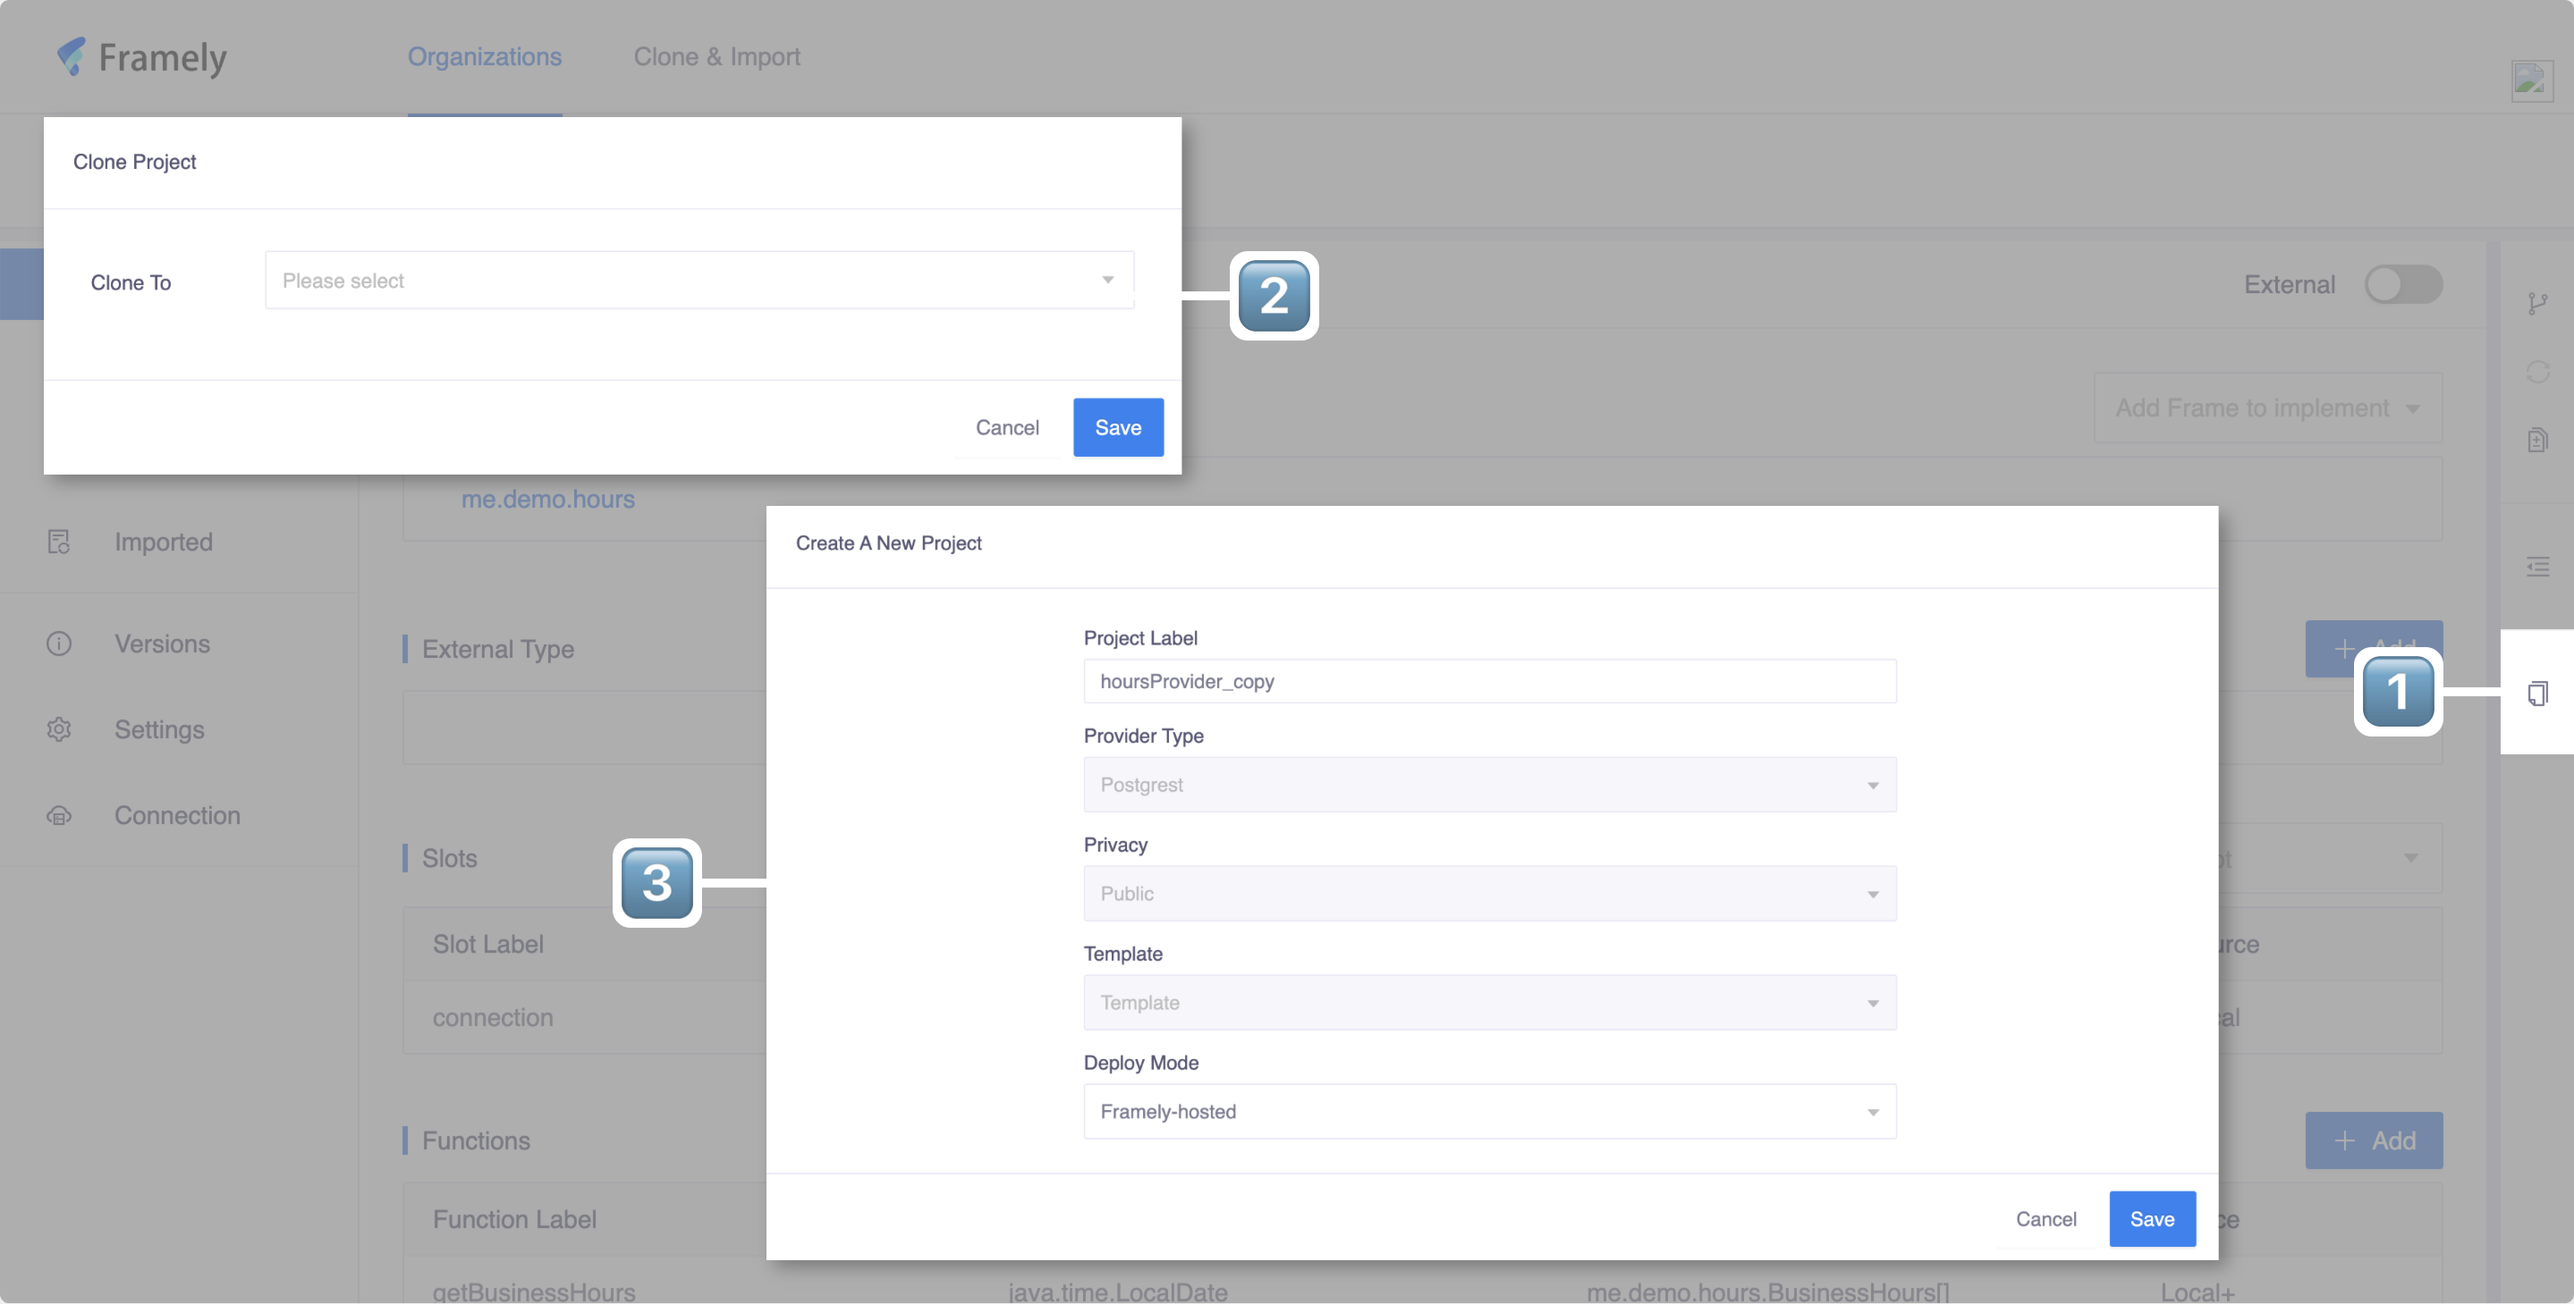
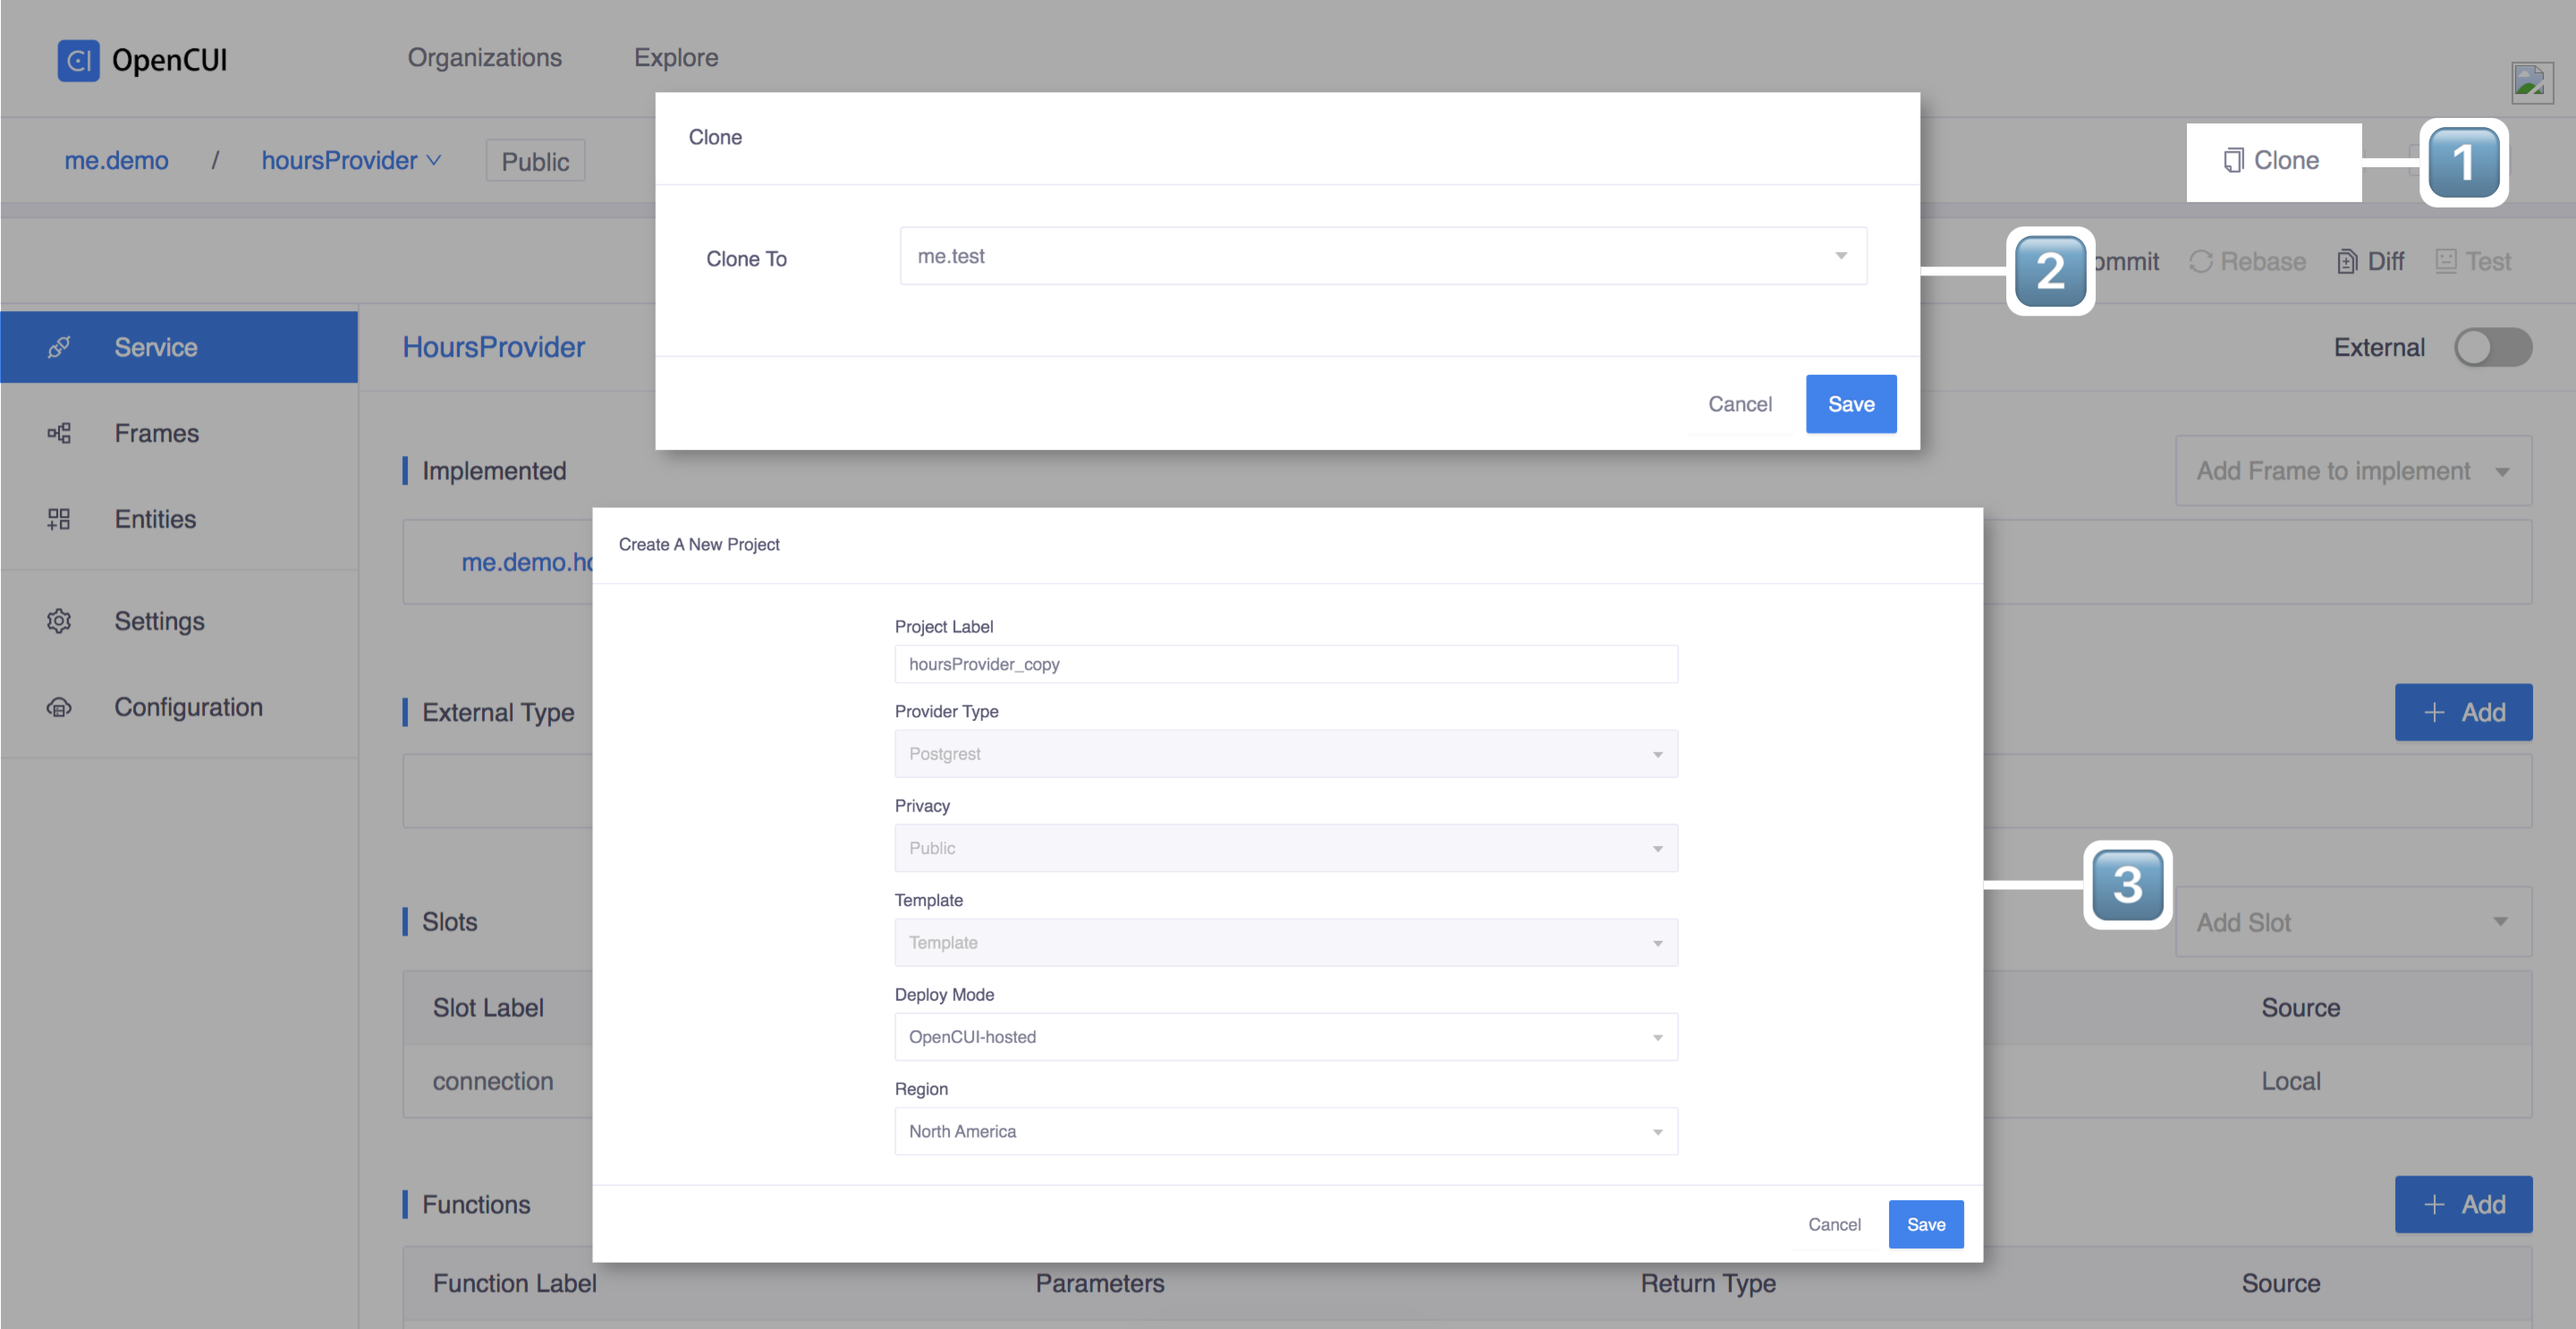
Update screenshots in blog

diff --git a/docs/articles/quick-start-with-service.md b/docs/articles/quick-start-with-service.md
@@ -1,6 +1,6 @@
 ---
 article: true
-date: 2022-09-27
+date: 2022-11-26
 
 image:
     - blog/quick-start.png
@@ -9,66 +9,115 @@ description:
 author: Sunny May
 ---
 
-# Quick Start with Service
-In this guide, we use [hours component](https://build.opencui.io/org/622c8ff683536204fe062b55/agent/630dc3282d6df2e68a96c688/service_schema) as an example to help you have a quick start with service. Hours component is designed to answer end-users' questions about business hours. 
+# Quick Start with Hours Component
+In this guide, we use [hours component](https://build.opencui.io/org/622c8ff683536204fe062b55/agent/630dc3282d6df2e68a96c688/service_schema) as an example to help you have a quick start with hours component. Hours component is designed to answer end-users' questions about business hours. 
 
-The whole procedure is shown in picture below and it is divided into these four steps:
+The whole procedure is divided into these steps:
 [[toc]]
 
+## Clone Provider
+
+1. Enter [hours provider](https://build.opencui.io/org/622c8ff683536204fe062b55/agent/634cf3c5fba1927bffe79c86/service_schema) and click **Clone**.
+2. Choose an organization to clone this provider to and click **Save**.
+3. When creating a cloned project, you can change the default **Project Label** and **Region**.
+
 ::: thumbnail
-![clone](/images/blog/quick-start-with-service/flowchart.gif)
+![clone-provider](/images/blog/quick-start-with-service/clone-provider.png)
 :::
 
-## Step 1: Clone Provider
+4. Once the provider is created successfully, the page will automatically jump to the cloned provider. In the **Version** tab, click **Pull Request** and then click the current version.
 
-1. Open [hours provider](https://build.opencui.io/org/622c8ff683536204fe062b55/agent/63101e0437fed01baf0079b3/service_schema) and click **Clone Project**.
-2. Choose an organization to clone this provider to.
-3. You can change the default project label of the cloned provider.
+::: thumbnail
+![pull request](/images/blog/quick-start-with-service/pull-request.png)
+*Figure 1: pull request*
 
-![clone-provider](/images/blog/quick-start-with-service/clone-provider.png)
+<br>
 
-## Step 2: Integrate Provider with Chatbot
+![click the current version](/images/blog/quick-start-with-service/click-version.png)
+*Figure 2: click the current version*
+:::
 
-1. Open [hours chatbot](https://build.opencui.io/org/622c8ff683536204fe062b55/agent/6329731a36b90caee5c750f3/intent) and click **Clone Project**. Choose an organization to clone this chatbot to.
-2. Select the region where your chatbot will be deployed. 
-3. Go to **Settings** > **Integrations**. Click a service provider, and change it to the cloned provider which implements the service.
+5. Click **Approve PR** and then click **Merge**. Create a **version tag** and click **Save**.
 
+::: thumbnail
+![approve pull request](/images/blog/quick-start-with-service/approve-pr.png)
+*Figure 1: approve pull request*
+
+<br>
+
+![merge to master](/images/blog/quick-start-with-service/merge.png)
+*Figure 2: merge to master*
+
+<br>
+
+![create version tag](/images/blog/quick-start-with-service/create-version-tag.png)
+*Figure 3: create version tag and save*
+:::
+
+## Upload Business Data
+1. Before you start, you need to deploy the provider and then tables will be created automatically in the PostgreSQL database. In the **Version** tab, click **Deploy**. Once the provider deployed successfully, you can see a green checked icon.
+
+::: thumbnail
+![deploy provider](/images/blog/quick-start-with-service/deploy-provider.png)
+:::
+
+2. In the **Configuration** field, you can get the **URL** of backoffice along with *Admin Email* and *Admin Password* to log in backoffice. 
+
+::: thumbnail
+![configuration](/images/blog/quick-start-with-service/configuration.png)
+:::
+
+3. Log in to back office. On the left sidebar, you can switch tables in your organization. Click **Create** to add a row. Complete the table and click **Save**. To learn what each column means, see [readme](../articles/hours-readme.html#about-table).
+
+::: thumbnail
+![upload data](/images/blog/quick-start-with-service/upload-data.png)
+::: 
+
+## Import Component to Chatbot
+1. To begin with, you need to [create a chatbot](../guide/pingpong.md#create-chatbot).
+2. Enter [hours component](https://build.opencui.io/org/622c8ff683536204fe062b55/agent/630dc3282d6df2e68a96c688/service_schema) and click **Import**. Select a chatbot in which you want to use the hours component and then click **Save**.
+
+::: thumbnail
+![import component](/images/blog/quick-start-with-service/import-component.png)
+:::
+
+## Integrate Provider with Chatbot
+
+1. Go back to your chatbot. In the **Settings** field, switch to the **Integrations** tab and Click **Select Service**. Enter a Label and select a Service Provider.
+
+::: thumbnail
 ![integrate](/images/blog/quick-start-with-service/integrate.png)
+:::
 
-4. Click **Commit** on both STRUCT side and EN side.
-5. Go to **Versions**, and Click **Pull Request**.
-6. Click the current version.
+## Test Chatbot
+1. Click **Commit** on **STRUCT** side. Then switch to **EN** side and click **Commit** as well.
 
-![pull-request](/images/blog/quick-start-with-service/pull-request.png)
+::: thumbnail
+![commit struct](/images/blog/quick-start-with-service/commit-struct.png)
+*Figure 1: commit at **STRUCT** side*
 
-7. Click **Approve PR** and then **Merge**.
-8. Click **Deploy**. After deployment, refresh the web page and you can see a green checked icon which means the chatbot has been deployed successfully.
+<br>
 
-![deploy-chatbot](/images/blog/quick-start-with-service/deploy-chatbot.png)
+![swtich to en](/images/blog/quick-start-with-service/switch-to-en.png)
+*Figure 2: swtich to EN side*
 
+<br>
 
+![commit en](/images/blog/quick-start-with-service/commit-en.png)
+*Figure 3: commit at **EN** side*
+:::
 
-## Step 3: Upload Business Data
-1. Back to the cloned provider in [step 1](#step-1-clone-provider). 
-2. Repeat #5-8 in [step 2](#step-2-integrate-provider-with-chatbot) to deploy the provider.
-3. Go to **Connection**, and click the corresponding region which you selected when cloning the chatbot. You can get a URL of [back office](../guide/glossary.md#backoffice) along with the login information.
+2. When commit successfully, click **Test**.
 
-![connection](/images/blog/quick-start-with-service/connection.png)
+::: thumbnail
+![click test](/images/blog/quick-start-with-service/click-test.png)
+:::
 
-5. Log in to back office. On the left sidebar, you can switch tables in your organization.
-6. Click **Create** to add a row.
-7. Complete the table and click **Save**. To learn what each column means, see [readme](../articles/hours-readme.html#about-table).
+3. Click **CONNECT**. Now you can use one of the [expressions](../guide/glossary.md#expression-exemplars) defined in intents to ask the bot for business hours and see what the bot replies. A sample conversation is shown below.
 
-![upload](/images/blog/quick-start-with-service/upload.png)
-
-
-## Step 4: Try It Now
-1. Back to the cloned chatbot in [Step 2](#step-2-integrate-provider-with-chatbot).
-2. Click **Commit** on EN side.
-3. When commit successfully, click **Try It Now!** then click **CONNECT**.
-4. :tada: Now you can use one of the [expressions](../guide/glossary.md#expression-exemplars) defined in intents to ask the bot for business hours and see what the bot replies.
-
-![test](/images/blog/quick-start-with-service/test.png)
+::: thumbnail
+![sample conversation](/images/blog/quick-start-with-service/conversation.png)
+:::
 
 ::: tip How to find expressions?
 On EN side, Click **Intents** > **Imported** > **Expression**.
